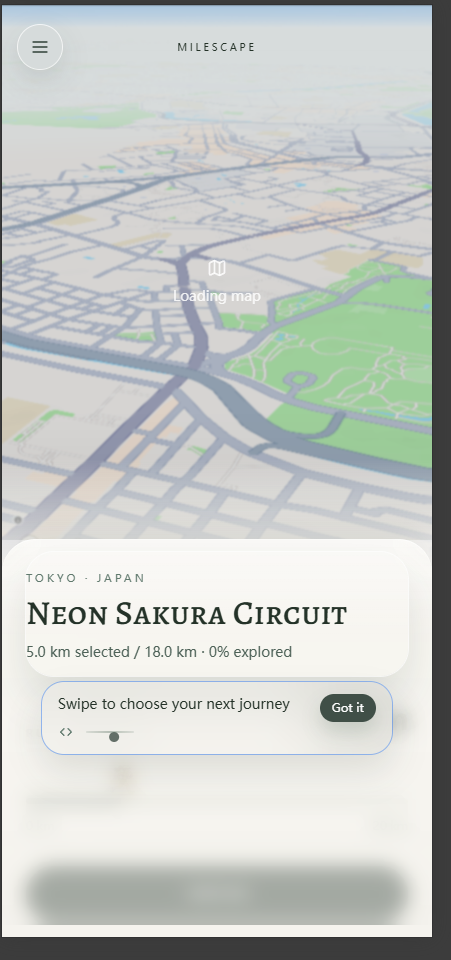
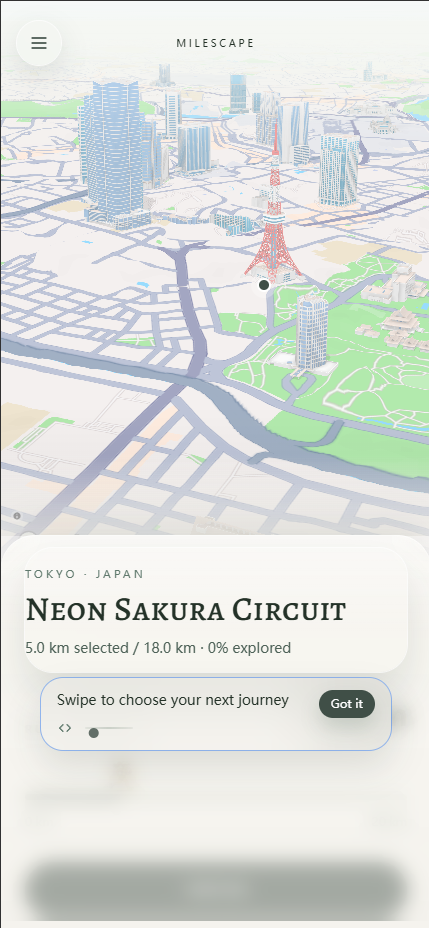
Add timeline evidence images

diff --git a/index.html b/index.html
@@ -2792,6 +2792,10 @@
             object-position: top center;
         }
 
+        .timeline-frame-link--focus-lower img {
+            object-position: center 68%;
+        }
+
         .timeline-lightbox {
             position: fixed;
             inset: 0;
@@ -5363,7 +5367,11 @@
             </li>
 
             <li class="timeline-step">
-                <div class="timeline-manuscript-frame"><span class="frame-placeholder">Add Image</span></div>
+                <div class="timeline-manuscript-frame timeline-manuscript-frame--filled">
+                    <a class="timeline-frame-link timeline-frame-link--focus-lower" href="images/timeline/3.14.jpg" aria-label="Preview project planning image">
+                        <img src="images/timeline/3.14.jpg" alt="Project planning evidence from 03/14">
+                    </a>
+                </div>
                 <span class="timeline-node" aria-hidden="true"></span>
                 <article class="timeline-card">
                     <span class="timeline-date">03/14</span>
@@ -5438,7 +5446,11 @@
             </li>
 
             <li class="timeline-step">
-                <div class="timeline-manuscript-frame"><span class="frame-placeholder">Add Image</span></div>
+                <div class="timeline-manuscript-frame timeline-manuscript-frame--filled">
+                    <a class="timeline-frame-link" href="images/timeline/4.17.jpg" aria-label="Preview prototype setup image">
+                        <img src="images/timeline/4.17.jpg" alt="Prototype setup evidence from 04/17">
+                    </a>
+                </div>
                 <span class="timeline-node" aria-hidden="true"></span>
                 <article class="timeline-card">
                     <span class="timeline-date">04/17</span>
@@ -5448,7 +5460,11 @@
             </li>
 
             <li class="timeline-step">
-                <div class="timeline-manuscript-frame"><span class="frame-placeholder">Add Image</span></div>
+                <div class="timeline-manuscript-frame timeline-manuscript-frame--filled">
+                    <a class="timeline-frame-link" href="images/timeline/4.18.jpg" aria-label="Preview visual direction image">
+                        <img src="images/timeline/4.18.jpg" alt="Visual direction evidence from 04/18">
+                    </a>
+                </div>
                 <span class="timeline-node" aria-hidden="true"></span>
                 <article class="timeline-card">
                     <span class="timeline-date">04/18</span>
@@ -5458,7 +5474,11 @@
             </li>
 
             <li class="timeline-step">
-                <div class="timeline-manuscript-frame"><span class="frame-placeholder">Add Image</span></div>
+                <div class="timeline-manuscript-frame timeline-manuscript-frame--filled">
+                    <a class="timeline-frame-link" href="images/timeline/4.20.jpg" aria-label="Preview core scaffold image">
+                        <img src="images/timeline/4.20.jpg" alt="Core scaffold evidence from 04/20">
+                    </a>
+                </div>
                 <span class="timeline-node" aria-hidden="true"></span>
                 <article class="timeline-card">
                     <span class="timeline-date">04/20</span>
@@ -5491,7 +5511,11 @@
             </li>
 
             <li class="timeline-step">
-                <div class="timeline-manuscript-frame"><span class="frame-placeholder">Add Image</span></div>
+                <div class="timeline-manuscript-frame timeline-manuscript-frame--filled">
+                    <a class="timeline-frame-link" href="images/timeline/4.23.jpg" aria-label="Preview My Scape system image">
+                        <img src="images/timeline/4.23.jpg" alt="My Scape system evidence from 04/23">
+                    </a>
+                </div>
                 <span class="timeline-node" aria-hidden="true"></span>
                 <article class="timeline-card">
                     <span class="timeline-date">04/23</span>
@@ -5515,7 +5539,11 @@
             </li>
 
             <li class="timeline-step">
-                <div class="timeline-manuscript-frame"><span class="frame-placeholder">Add Image</span></div>
+                <div class="timeline-manuscript-frame timeline-manuscript-frame--filled">
+                    <a class="timeline-frame-link" href="images/timeline/4.27.jpg" aria-label="Preview running polish image">
+                        <img src="images/timeline/4.27.jpg" alt="Running polish evidence from 04/27">
+                    </a>
+                </div>
                 <span class="timeline-node" aria-hidden="true"></span>
                 <article class="timeline-card">
                     <span class="timeline-date">04/27</span>
@@ -5525,7 +5553,11 @@
             </li>
 
             <li class="timeline-step">
-                <div class="timeline-manuscript-frame"><span class="frame-placeholder">Add Image</span></div>
+                <div class="timeline-manuscript-frame timeline-manuscript-frame--filled">
+                    <a class="timeline-frame-link" href="images/timeline/4.29.jpg" aria-label="Preview feature upgrade image">
+                        <img src="images/timeline/4.29.jpg" alt="Feature upgrade evidence from 04/29">
+                    </a>
+                </div>
                 <span class="timeline-node" aria-hidden="true"></span>
                 <article class="timeline-card">
                     <span class="timeline-date">04/29</span>
@@ -5535,7 +5567,11 @@
             </li>
 
             <li class="timeline-step">
-                <div class="timeline-manuscript-frame"><span class="frame-placeholder">Add Image</span></div>
+                <div class="timeline-manuscript-frame timeline-manuscript-frame--filled">
+                    <a class="timeline-frame-link" href="images/timeline/5.2.jpg" aria-label="Preview UI refinement image">
+                        <img src="images/timeline/5.2.jpg" alt="UI refinement evidence from 05/02">
+                    </a>
+                </div>
                 <span class="timeline-node" aria-hidden="true"></span>
                 <article class="timeline-card">
                     <span class="timeline-date">05/02</span>
@@ -5545,7 +5581,11 @@
             </li>
 
             <li class="timeline-step">
-                <div class="timeline-manuscript-frame"><span class="frame-placeholder">Add Image</span></div>
+                <div class="timeline-manuscript-frame timeline-manuscript-frame--filled">
+                    <a class="timeline-frame-link" href="images/timeline/5.8.jpg" aria-label="Preview demo completion image">
+                        <img src="images/timeline/5.8.jpg" alt="Demo completion evidence from 05/08">
+                    </a>
+                </div>
                 <span class="timeline-node" aria-hidden="true"></span>
                 <article class="timeline-card">
                     <span class="timeline-date">05/08</span>
